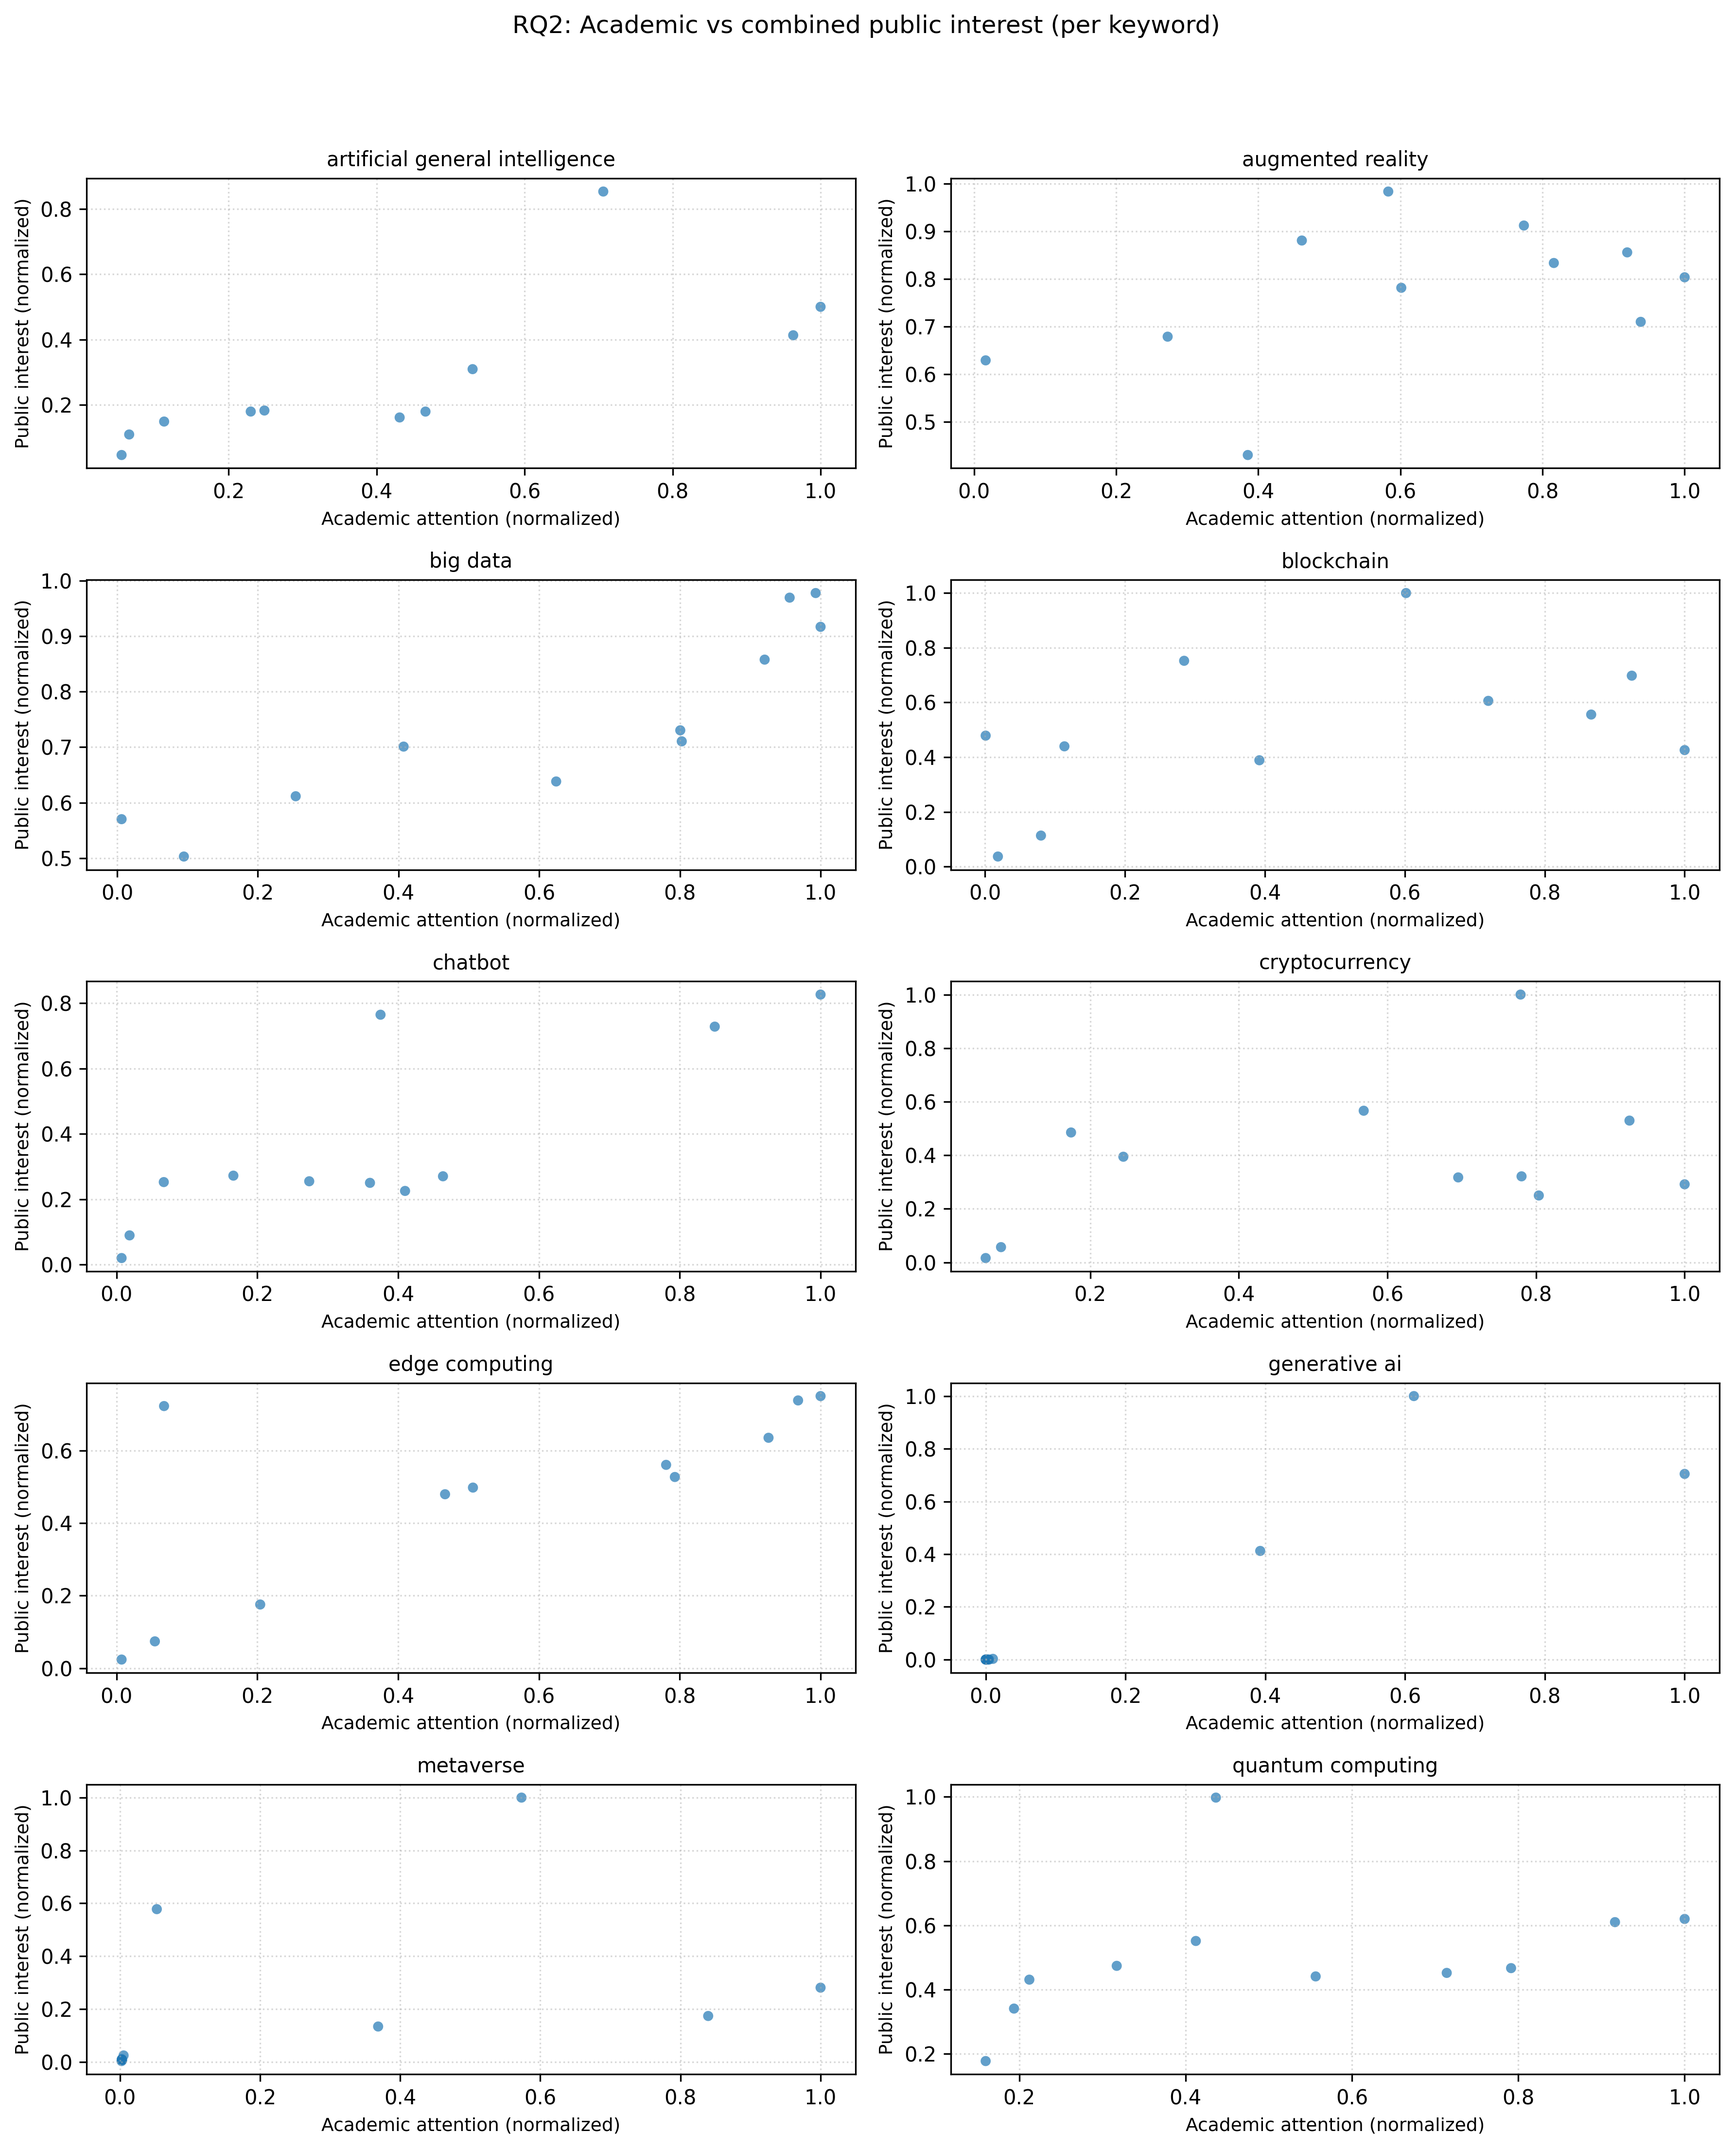
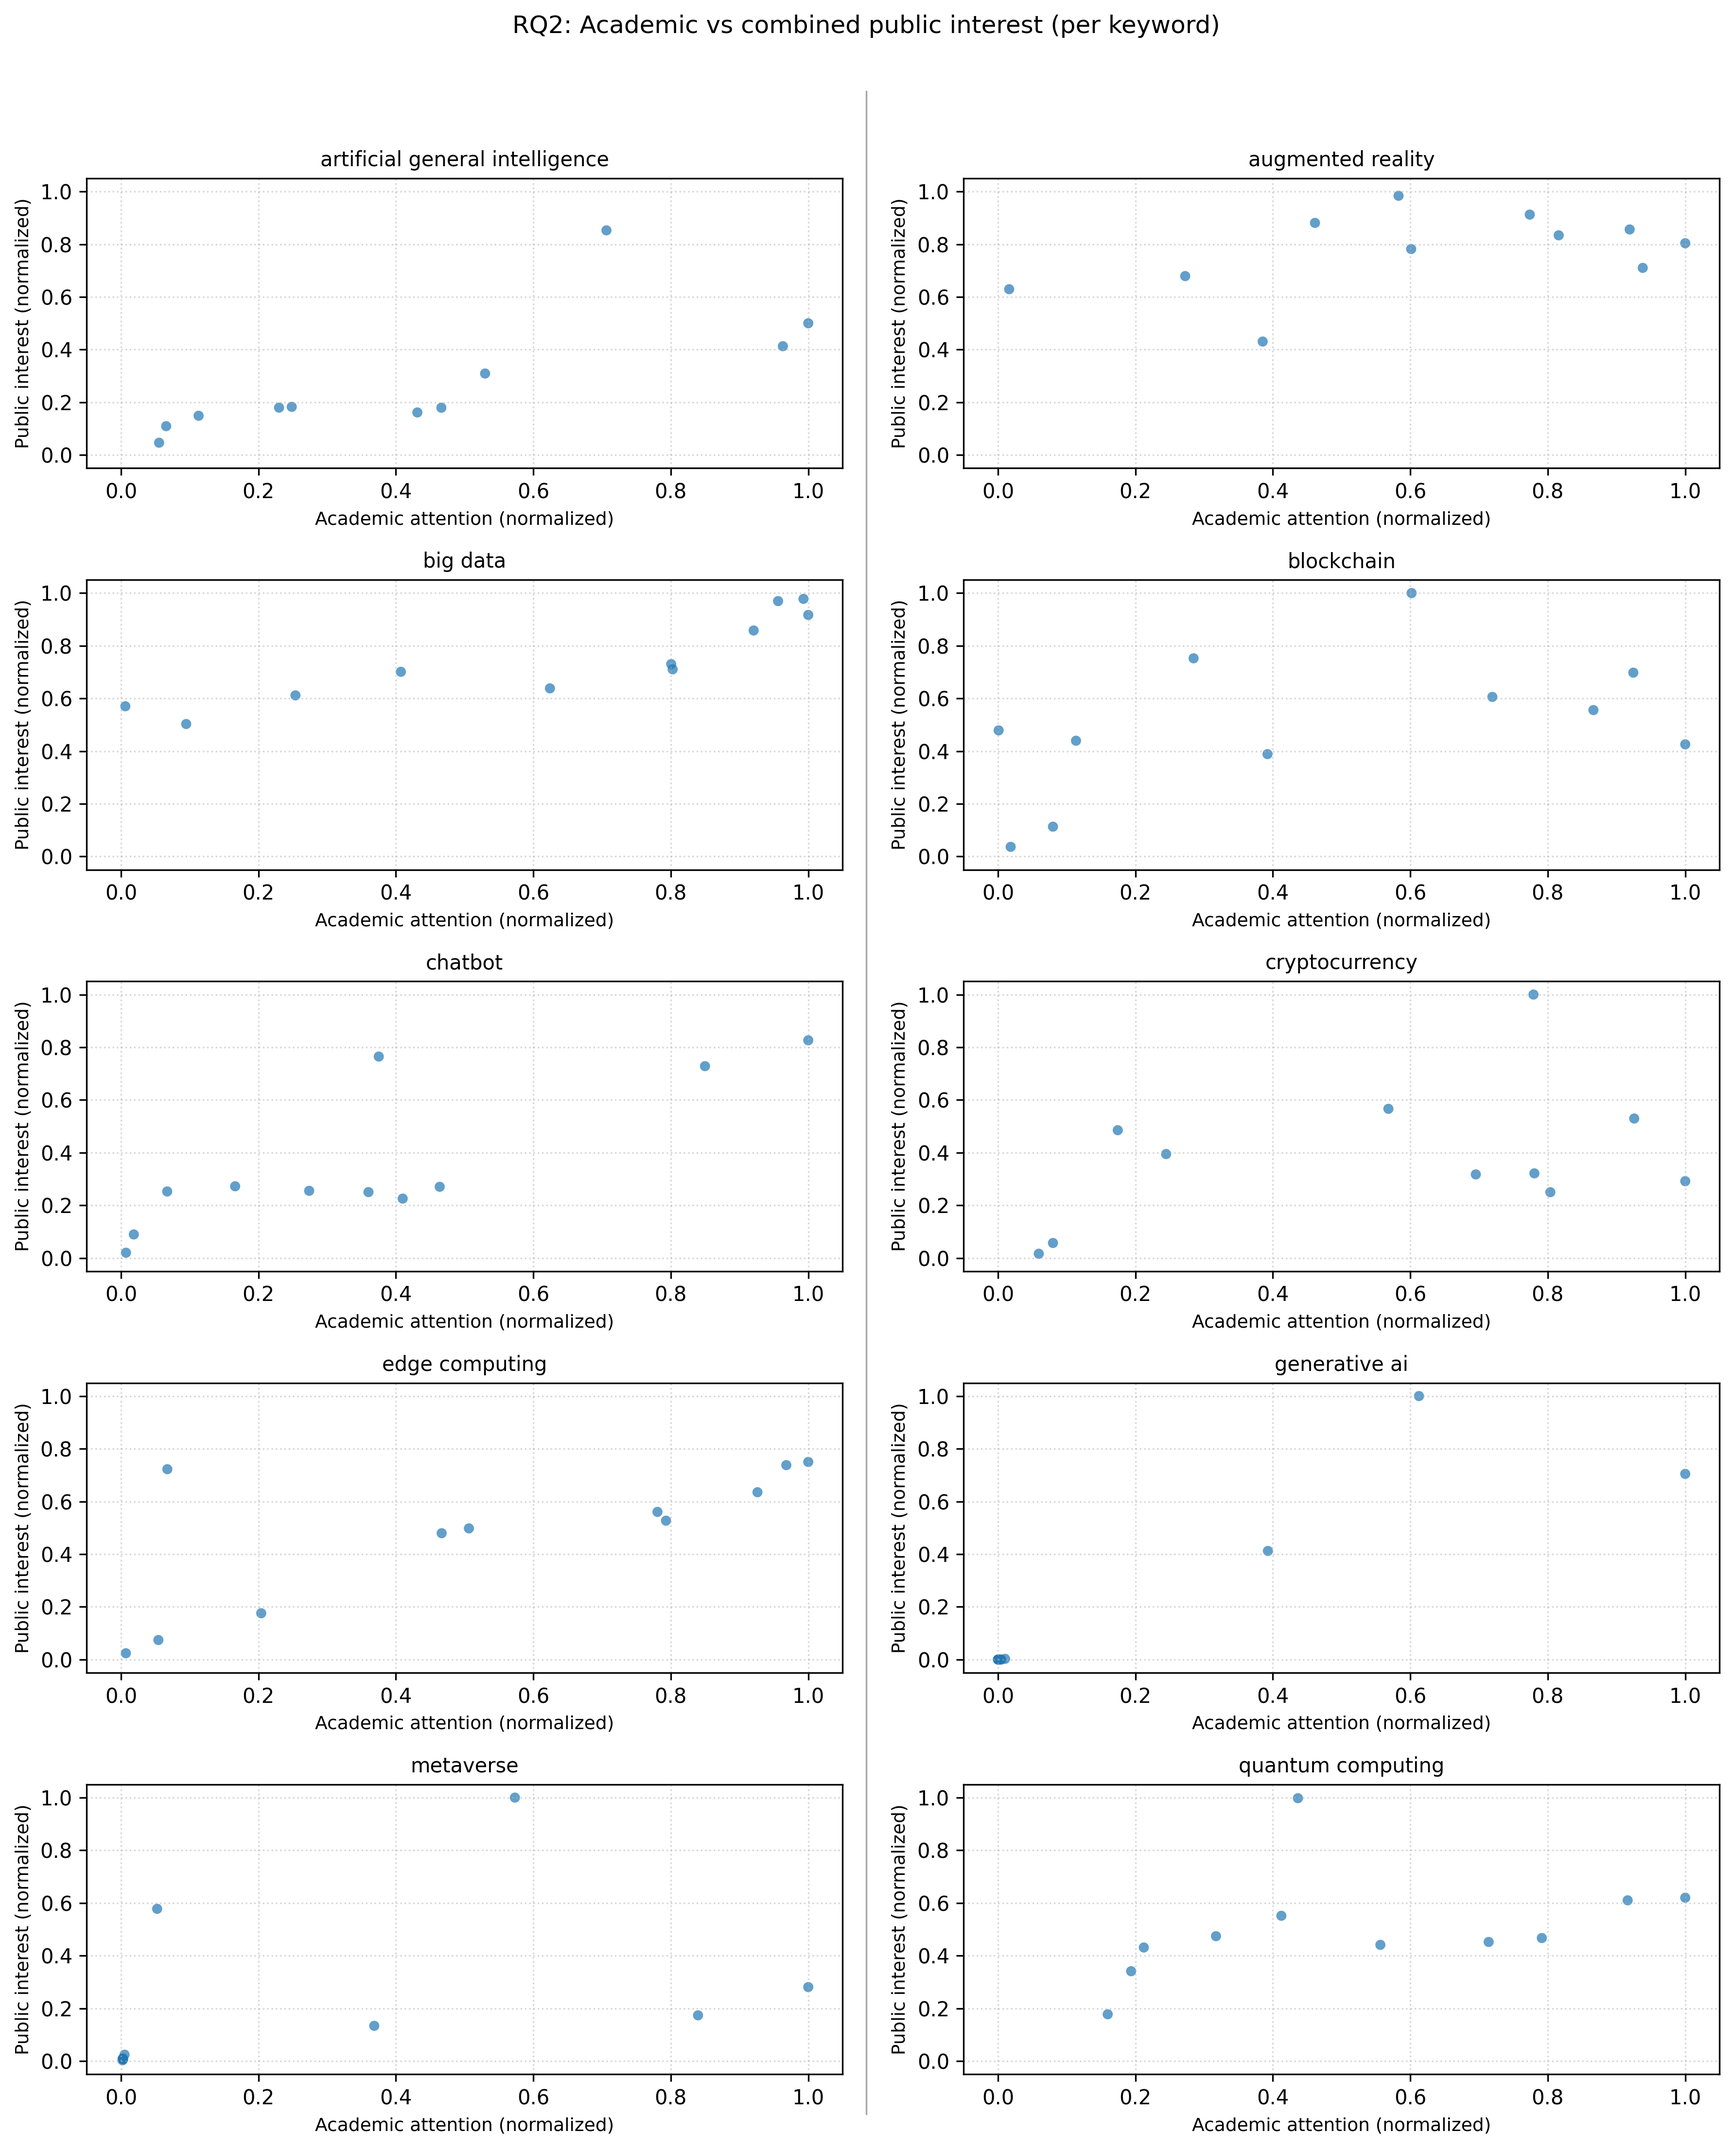
fix: harcoded axis limits for the full-page figures and added some formatting

diff --git a/code/RQ2.py b/code/RQ2.py
@@ -1,5 +1,6 @@
 import pandas as pd
 import matplotlib.pyplot as plt
+from matplotlib.lines import Line2D
 from pathlib import Path
 
 
@@ -76,7 +77,7 @@ def scatter_grid(df: pd.DataFrame, x_col: str, y_col: str,
     # Larger figure size so details survive ACM column scaling
     fig, axes = plt.subplots(
         n_rows, n_cols,
-        figsize=(6 * n_cols, 3 * n_rows),  # e.g., for 10 keywords: 12 x 15 inches
+        figsize=(6 * n_cols, 3 * n_rows),
         sharex=False,
         sharey=False
     )
@@ -97,12 +98,27 @@ def scatter_grid(df: pd.DataFrame, x_col: str, y_col: str,
         ax.set_ylabel(y_label, fontsize=9)
         ax.grid(True, linestyle=":", alpha=0.5)
 
+        ax.set_ylim(-0.05, 1.05)
+        ax.set_xlim(-0.05, 1.05)
+
     # Hide unused axes (for example if n_keywords is odd)
     for ax in axes[n_keywords:]:
         ax.set_visible(False)
 
     fig.suptitle(title, fontsize=12, y=0.98)
     plt.tight_layout(rect=[0, 0, 1, 0.95])
+    fig.subplots_adjust(wspace=0.16)
+
+    sep_line = Line2D(
+        [0.5, 0.5],     #x-coordinates
+        [0.02, 0.945],  #y-coordinates
+        transform=fig.transFigure,
+        linewidth=0.8,
+        color="grey",
+        alpha=0.7,
+    )
+    fig.add_artist(sep_line)
+
     plt.savefig(out_path, dpi=300, bbox_inches="tight")
     plt.close()
     print(f"Saved scatter grid to: {out_path}")
@@ -124,7 +140,10 @@ def dual_axis_grid(df: pd.DataFrame, left_col: str, right_col: str,
     n_cols = 2
     n_rows = (n_keywords + n_cols - 1) // n_cols
 
-    fig, axes = plt.subplots(n_rows, n_cols, figsize=(10, 12))  # Fixed size
+    fig, axes = plt.subplots(
+        n_rows, n_cols,
+        figsize=(10, 12),
+    )  # Fixed size
     axes = axes.flatten()
 
     for ax, keyword in zip(axes, keywords):
@@ -143,6 +162,8 @@ def dual_axis_grid(df: pd.DataFrame, left_col: str, right_col: str,
         ax.set_ylabel(left_label, fontsize=8)
         ax.grid(True, linestyle=":", alpha=0.5)
 
+        ax.set_ylim(-0.05, 1.05)
+
         # Right axis: public_norm
         ax2 = ax.twinx()
         ax2.plot(
@@ -154,12 +175,26 @@ def dual_axis_grid(df: pd.DataFrame, left_col: str, right_col: str,
         )
         ax2.set_ylabel(right_label, fontsize=8)
 
+        ax2.set_ylim(-0.05, 1.05)
+
     # Hide unused axes if n_keywords is odd
     for ax in axes[n_keywords:]:
         ax.set_visible(False)
 
     fig.suptitle(title, fontsize=12, y=0.98)
     plt.tight_layout(rect=[0, 0, 1, 0.95])
+    fig.subplots_adjust(wspace=0.4)
+
+    sep_line = Line2D(
+        [0.5, 0.5],     #x-coordinates
+        [0.02, 0.945],  #y-coordinates
+        transform=fig.transFigure,
+        linewidth=0.8,
+        color="grey",
+        alpha=0.7,
+    )
+    fig.add_artist(sep_line)
+
     plt.savefig(out_path, dpi=300, bbox_inches="tight")
     plt.close()
     print(f"Saved dual-axis grid to: {out_path}")

diff --git a/code/RQ1.py b/code/RQ1.py
@@ -1,5 +1,6 @@
 import pandas as pd
 import matplotlib.pyplot as plt
+from matplotlib.lines import Line2D
 from pathlib import Path
 
 
@@ -94,6 +95,8 @@ def plot_rq1_small_multiples(df: pd.DataFrame, out_path: Path) -> None:
         ax.set_xlabel("Year", fontsize=9)
         ax.set_ylabel("Normalized academic\nattention", fontsize=9)
 
+        ax.set_ylim(-0.05, 1.05)
+
     # Hide unused axes if count is odd
     for ax in axes[n_keywords:]:
         ax.set_visible(False)
@@ -101,6 +104,18 @@ def plot_rq1_small_multiples(df: pd.DataFrame, out_path: Path) -> None:
     fig.suptitle("Academic hype cycles by keyword", fontsize=12, y=0.98)
 
     plt.tight_layout(rect=[0, 0, 1, 0.95])
+    fig.subplots_adjust(wspace=0.25)
+
+    sep_line = Line2D(
+        [0.5, 0.5],     #x-coordinates
+        [0.02, 0.945],  #y-coordinates
+        transform=fig.transFigure,
+        linewidth=0.8,
+        color="grey",
+        alpha=0.7,
+    )
+    fig.add_artist(sep_line)
+
     fig.savefig(out_path, dpi=300, bbox_inches="tight")
     plt.close()
     print(f"Saved small-multiples RQ1 plot to: {out_path}")
